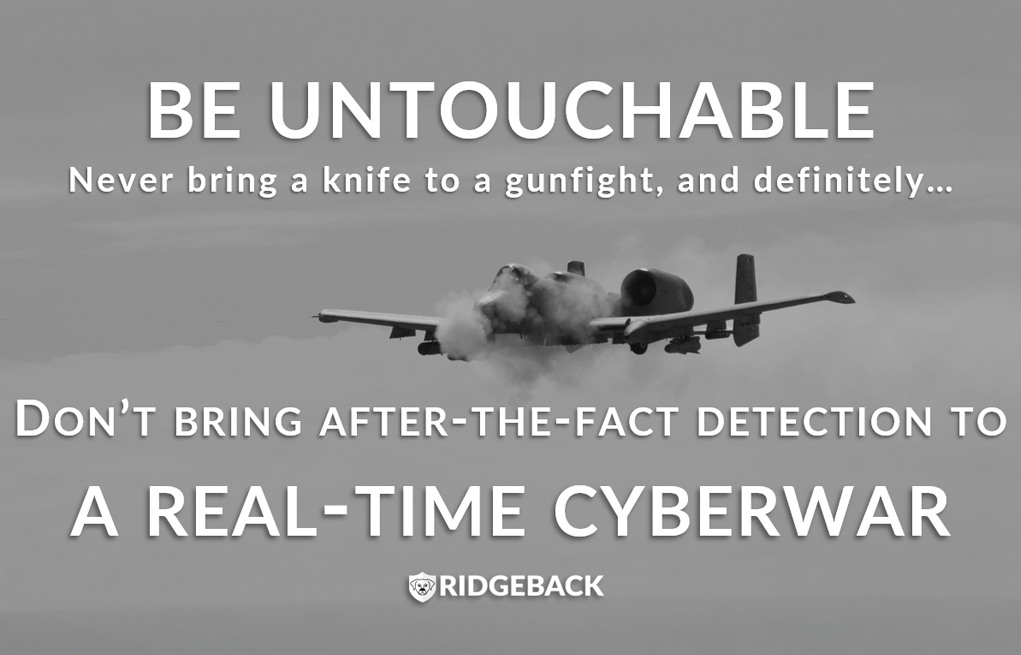
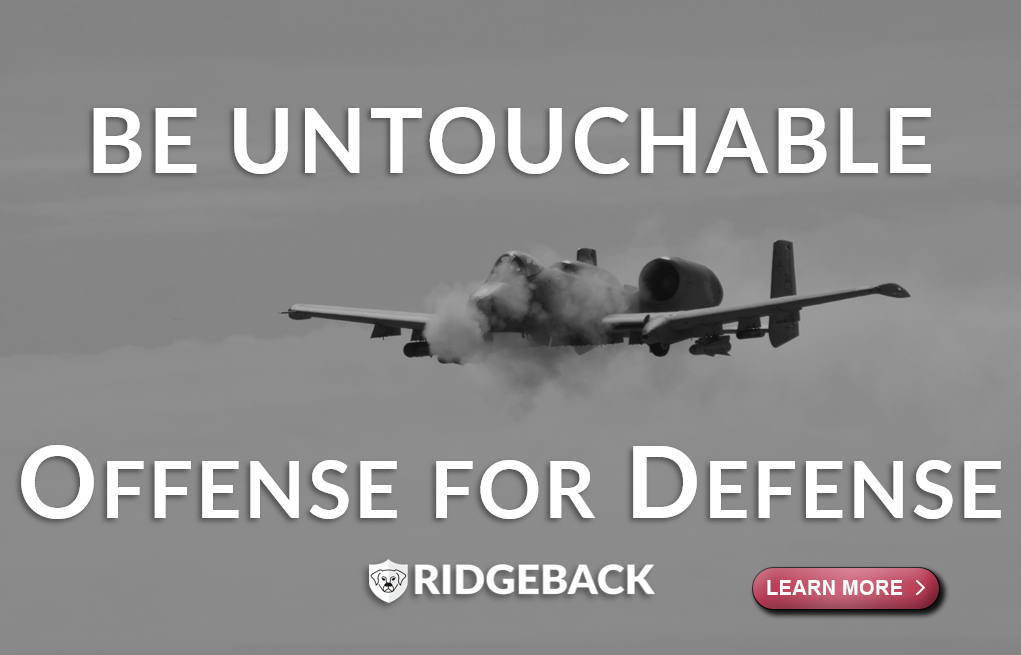
Tabbed section and images that scroll to it on click

diff --git a/docs/index.html b/docs/index.html
@@ -18,6 +18,7 @@
           flex-wrap: wrap;
         "
         class="navbar"
+        id="main-navbar"
       >
         <a href="index.html">
           <img
@@ -38,28 +39,7 @@
       <div class="section" style="padding-top: 24px">
         <div class="slideshow-container">
           <div class="slides">
-            <picture>
-              <source
-                srcset="img/slideshow/chaos_order_SM_767.png"
-                media="(max-width: 767px)"
-              />
-              <source
-                srcset="img/slideshow/chaos_order_MD_768_1023.png"
-                media="(max-width: 1023px)"
-              />
-              <source
-                srcset="img/slideshow/chaos_order_LG_1024_1279.png"
-                media="(max-width: 1279px)"
-              />
-              <img
-                src="img/slideshow/chaos_order_XL_1280.png"
-                alt="Image 1"
-                style="width: 100%"
-              />
-            </picture>
-          </div>
-          <div class="slides">
-            <picture>
+            <picture id="picture-a">
               <source
                 srcset="img/slideshow/knife_SM_767.png"
                 media="(max-width: 767px)"
@@ -75,7 +55,28 @@
               <img
                 src="img/slideshow/knife_XL_1280.png"
                 alt="Image 2"
-                style="width: 100%"
+                style="width: 100%; cursor: pointer"
+              />
+            </picture>
+          </div>
+          <div class="slides">
+            <picture id="picture-b">
+              <source
+                srcset="img/slideshow/chaos_order_SM_767.png"
+                media="(max-width: 767px)"
+              />
+              <source
+                srcset="img/slideshow/chaos_order_MD_768_1023.png"
+                media="(max-width: 1023px)"
+              />
+              <source
+                srcset="img/slideshow/chaos_order_LG_1024_1279.png"
+                media="(max-width: 1279px)"
+              />
+              <img
+                src="img/slideshow/chaos_order_XL_1280.png"
+                alt="Image 1"
+                style="width: 100%; cursor: pointer"
               />
             </picture>
           </div>
@@ -86,7 +87,52 @@
           <span class="dot"></span>
         </div>
       </div>
-      <div class="section">
+      <!-- <div
+        class="section"
+        style="
+          display: flex;
+          flex-direction: row;
+          justify-content: center;
+          gap: 24px;
+        "
+      >
+        <button id="buttonA" class="email-button">Business Leadership</button>
+        <button id="buttonB" class="email-button">IT / Security Team</button>
+      </div> -->
+      <div class="tab-container" id="tab-container">
+        <button id="tab-a" class="tab active">Business Leadership</button>
+        <button id="tab-b" class="tab">IT / Security Team</button>
+      </div>
+      <div id="tab-a-content" class="tab-content active">
+        <p
+          class="font-dark-blue"
+          style="font-size: xx-large; font-weight: bolder"
+        >
+          Why offense for defense?
+        </p>
+        <p>
+          Even the very strongest ‘detect-and-respond’ solutions that leverage
+          analytical models to do their work leave defenders on the backfoot,
+          playing a reactive game of catch up.
+        </p>
+        <p>
+          Automated attacks need automated solutions that impair adversary
+          operations in actual real-time.
+        </p>
+        <p>
+          Ridgeback uses offensive techniques scaled and automated for defense
+          to counter-engage adversary exploitation autonomously in actual
+          real-time, a new addition to cyber defense capabilities.
+        </p>
+        <p
+          class="font-dark-blue"
+          style="font-size: xx-large; font-weight: bolder; text-align: center"
+        >
+          Never bring a knife to a gunfight, and definitely… <br />
+          DON’T BRING AFTER-THE-FACT DETECTION TO A REAL-TIME CYBERWAR
+        </p>
+      </div>
+      <div id="tab-b-content" class="tab-content">
         <p
           class="font-dark-blue"
           style="font-size: xx-large; font-weight: bolder; padding-bottom: 32px"
@@ -859,6 +905,72 @@
       // Initialize the slideshow
       showSlide(slideIndex);
       startTimer();
+    </script>
+    <script>
+      // Get all tab buttons and content divs
+      const tabs = document.querySelectorAll(".tab");
+      const contents = document.querySelectorAll(".tab-content");
+
+      // Add click event to each tab
+      tabs.forEach((tab, index) => {
+        tab.addEventListener("click", () => {
+          // Remove 'active' class from all tabs and content
+          tabs.forEach((t) => t.classList.remove("active"));
+          contents.forEach((c) => c.classList.remove("active"));
+
+          // Add 'active' class to the clicked tab and corresponding content
+          tab.classList.add("active");
+          contents[index].classList.add("active");
+        });
+      });
+    </script>
+    <script>
+      // Function to scroll to the tabs section and display the selected tab
+      function scrollToTabAndShow(tabId) {
+        const targetSection = document.getElementById("tab-container");
+        const navbarHeight =
+          document.getElementById("main-navbar").offsetHeight;
+
+        // Scroll to the tabs section
+        const sectionPosition =
+          targetSection.getBoundingClientRect().top +
+          window.pageYOffset -
+          navbarHeight;
+        window.scrollTo({
+          top: sectionPosition,
+          behavior: "smooth",
+        });
+
+        // Get all tabs and contents
+        const tabs = document.querySelectorAll(".tab");
+        const contents = document.querySelectorAll(".tab-content");
+
+        // Remove 'active' class from all tabs and contents
+        tabs.forEach((tab) => tab.classList.remove("active"));
+        contents.forEach((content) => content.classList.remove("active"));
+
+        // Show the target tab and content by adding the 'active' class
+        const selectedTab = document.getElementById(tabId);
+        if (selectedTab) {
+          selectedTab.classList.add("active");
+        }
+
+        // Assuming tab contents have the same id as the tabs,
+        // you can add a matching 'tab-content' class to the content section.
+        const selectedContent = document.querySelector(`#${tabId}-content`);
+        if (selectedContent) {
+          selectedContent.classList.add("active");
+        }
+      }
+
+      // Event listeners for the pictures
+      document.getElementById("picture-a").addEventListener("click", () => {
+        scrollToTabAndShow("tab-a");
+      });
+
+      document.getElementById("picture-b").addEventListener("click", () => {
+        scrollToTabAndShow("tab-b");
+      });
     </script>
   </body>
 </html>

diff --git a/docs/styles.css b/docs/styles.css
@@ -13,17 +13,67 @@
 
 /* Define custom colors in the :root selector */
 :root {
+  --ultraultralight-blue: #d4f4ff;
+  --ultralight-blue: #a6e4ff;
   --lightest-blue: #6ed2ff;
   --light-blue: #37c3ff;
   --blue: #0eb0f5;
   --dark-blue: #1782c0;
   --darkest-blue: #005a8d;
   --dark-grey: #5e6e6e;
+  --ultralight-red: #f9d7df;
+  --extra-light-red: #f4cbd5;
   --lightest-red: #efbbc6;
   --light-red: #eb6f89;
   --red: #e14767;
   --dark-red: #b3344e;
   --darkest-red: #804e58;
+}
+
+.bg-color-lightest-blue {
+  background-color: var(--lightest-blue);
+}
+.bg-color-light-blue {
+  background-color: var(--light-blue);
+}
+.bg-color-blue {
+  background-color: var(--blue);
+}
+.bg-color-dark-blue {
+  background-color: var(--dark-blue);
+}
+.bg-color-darkest-blue {
+  background-color: var(--darkest-blue);
+}
+.bg-color-dark-grey {
+  background-color: var(--dark-grey);
+}
+.bg-color-lightest-red {
+  background-color: var(--lightest-red);
+}
+.bg-color-light-red {
+  background-color: var(--light-red);
+}
+.bg-color-red {
+  background-color: var(--red);
+}
+.bg-color-dark-red {
+  background-color: var(--dark-red);
+}
+.bg-color-darkest-red {
+  background-color: var(--darkest-red);
+}
+.bg-color-ultralight-blue {
+  background-color: var(--ultralight-blue);
+}
+.bg-color-ultraultralight-blue {
+  background-color: var(--ultraultralight-blue);
+}
+.bg-color-ultralight-red {
+  background-color: var(--ultralight-red);
+}
+.bg-color-extra-light-red {
+  background-color: var(--extra-light-red);
 }
 
 /* USAGE EXAMPLE */
@@ -691,4 +741,48 @@ ul {
 
 .dot.active {
   background-color: #717171;
+}
+
+.hidden {
+  display: none;
+}
+
+/* Style the tab container */
+.tab-container {
+  display: flex;
+  border-bottom: 2px solid #ccc;
+}
+
+/* Style each tab button */
+.tab {
+  flex: 1;
+  padding: 10px 20px;
+  text-align: center;
+  cursor: pointer;
+  background-color: #f1f1f1;
+  /* background-color: var(--ultralight-red); */
+  border: none;
+  outline: none;
+  transition: background-color 0.3s ease;
+  font-size: medium;
+}
+
+/* Active tab style */
+.tab.active {
+  background-color: #fff;
+  border-bottom: 2px solid #007bff;
+  font-weight: bold;
+}
+
+/* Style for content sections */
+.tab-content {
+  display: none;
+  padding: 20px;
+  border: 1px solid #ccc;
+  border-top: none;
+  background-color: #fff;
+}
+
+.tab-content.active {
+  display: block;
 }
